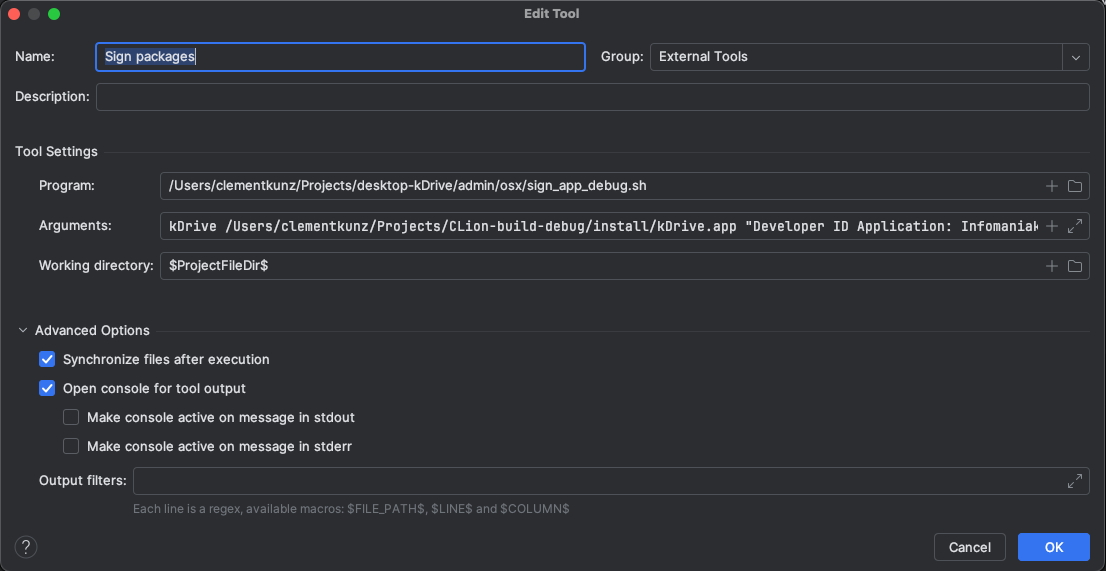
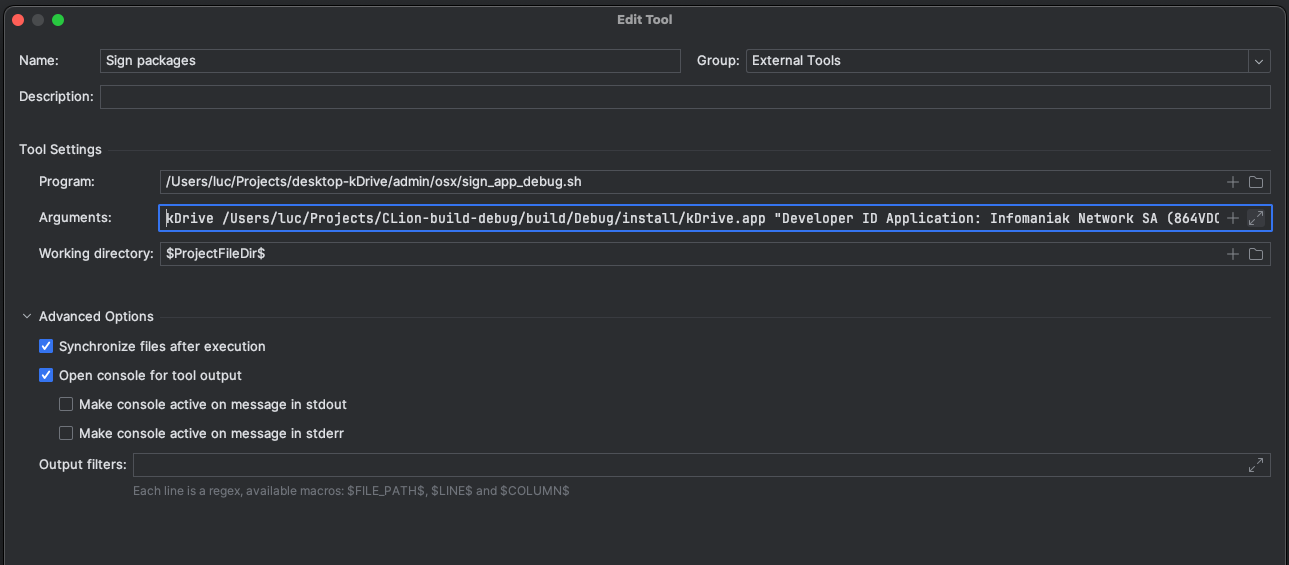
fix(macos-debug-build): document how to install exclusion lists correctly for a MacOS debug build

diff --git a/src/libcommonserver/utility/utility.cpp b/src/libcommonserver/utility/utility.cpp
@@ -70,7 +70,7 @@ static const SyncName excludedAppFileName(Str("litesync-exclude.lst"));
 
 // Resources relative path from working dir
 #if defined(__APPLE__)
-static const SyncName resourcesPath(Str("../../Contents/Resources"));
+static const SyncName resourcesPath(Str("../Resources"));
 #elif defined(__unix__)
 static const SyncName resourcesPath(Str(""));
 #elif defined(_WIN32)

diff --git a/infomaniak-build-tools/macos/Readme.md b/infomaniak-build-tools/macos/Readme.md
@@ -250,7 +250,7 @@ The project requires additional CMake variables for a correct build. To inject t
    set(BUILD_UNIT_TESTS "ON")      # Set to "OFF" to skip tests
    set(SOCKETAPI_TEAM_IDENTIFIER_PREFIX "864VDCS2QY")
    set(CMAKE_PREFIX_PATH "$ENV{HOME}/Qt/6.2.3/macos")
-   set(CMAKE_INSTALL_PREFIX "$ENV{HOME}/Projects/CLion-build-debug/install")
+   set(CMAKE_INSTALL_PREFIX "$ENV{HOME}/Projects/CLion-build-debug/build/Debug/install")
    ```
 
 2. In your profile (`~/.conan2/profiles/default`), add under a new `[conf]` section:
@@ -352,6 +352,18 @@ Add a `Run external tool` in the `Before launch` steps:
 Create the external tool to run `sign_app_debug.sh`:
 
 ![alt text](doc-images/sign_package.png)
+
+The content of the `Arguments` field is of the form:
+
+```
+kDrive
+/Users/clementkunz/Projects/CLion-build-debug/build/Debug/install/kDrive.app
+"Developer ID Application: Infomaniak Network SA (864VDCS2QY)"
+"864VDCS2QY"
+"com.infomaniak.drive.desktopclient"
+2>&1
+1>/dev/null
+```
 
 Signing package is mandatory only if you need to use the LiteSync in debug mode. Otherwise you can remove this step in order to start the app faster.
 
